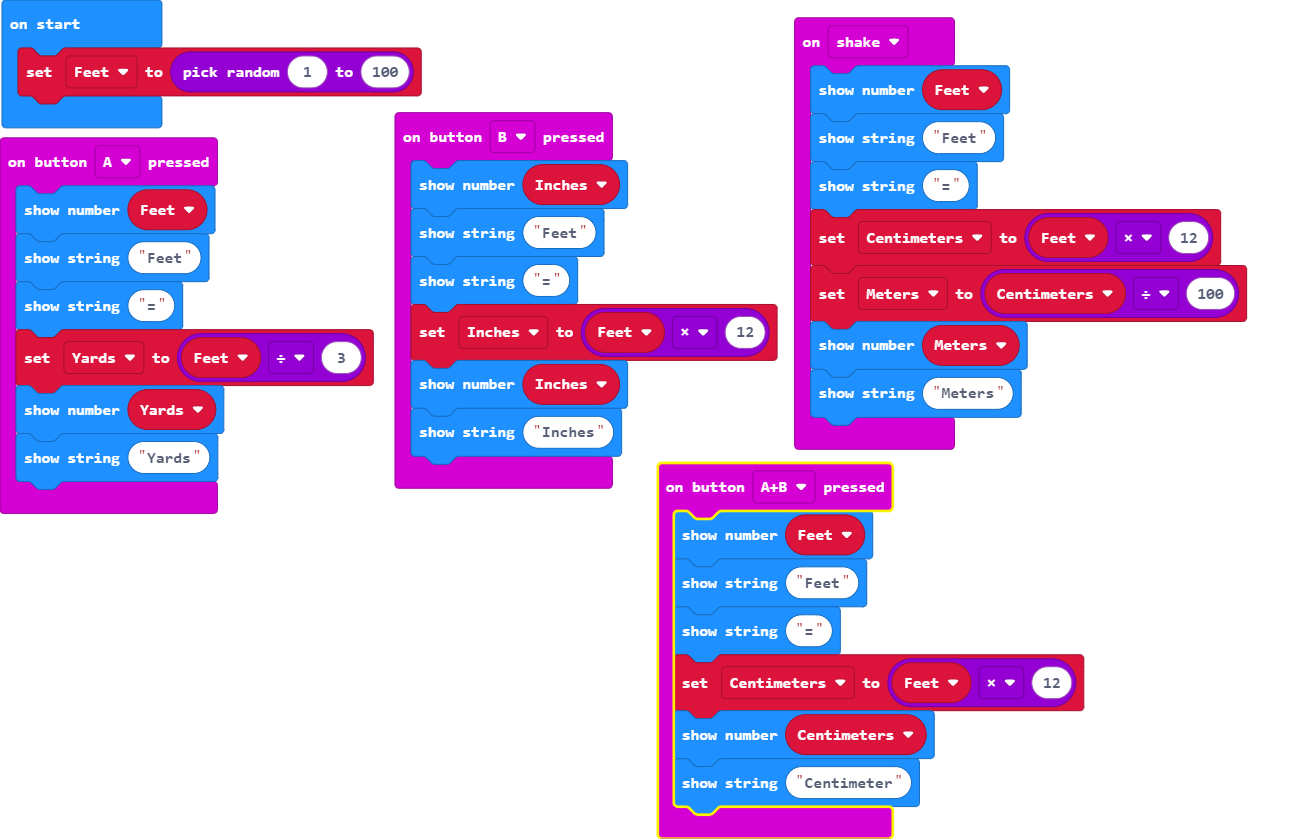
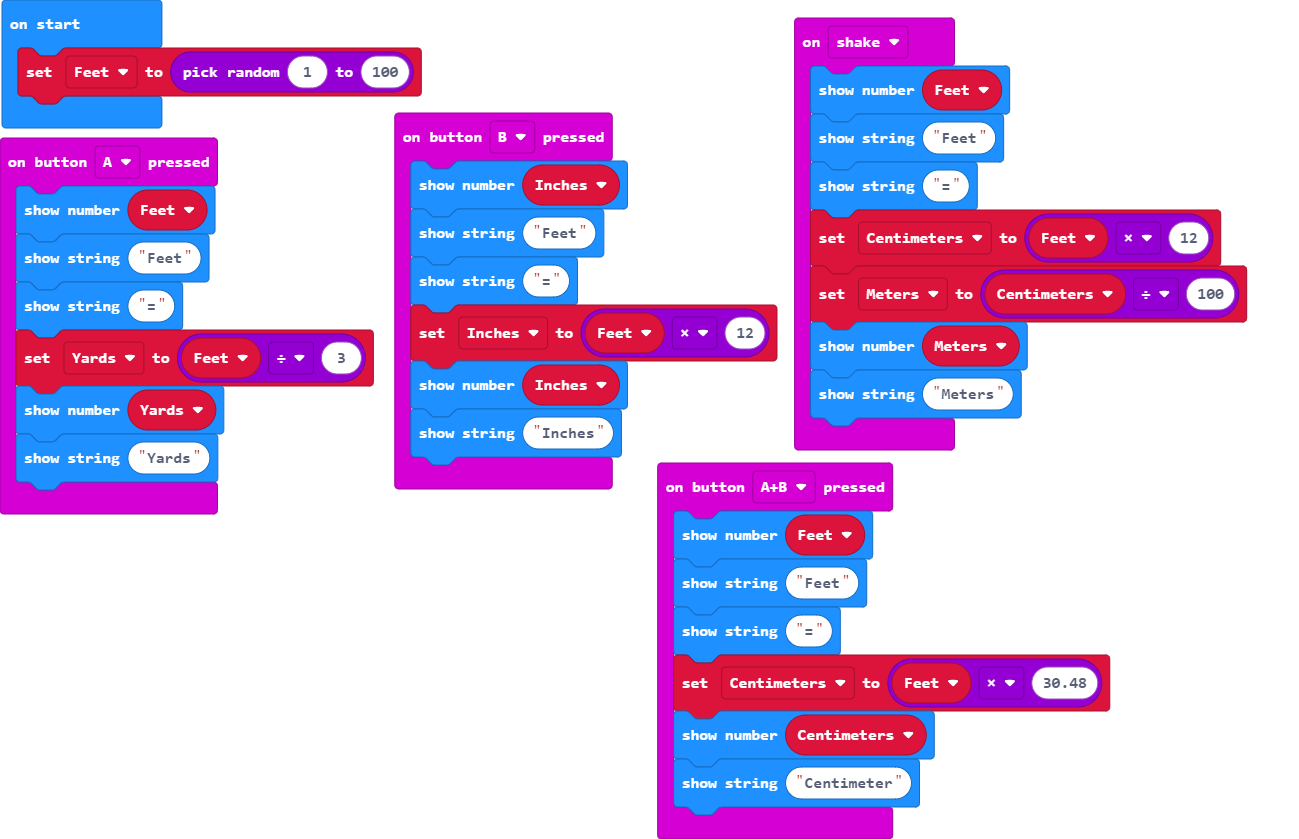
Update main.blocks, main.ts

diff --git a/main.ts b/main.ts
@@ -10,7 +10,7 @@ input.onButtonPressed(Button.AB, function () {
     basic.showNumber(Feet)
     basic.showString("Feet")
     basic.showString("=")
-    Centimeters = Feet * 12
+    Centimeters = Feet * 30.48
     basic.showNumber(Centimeters)
     basic.showString("Centimeter")
 })
